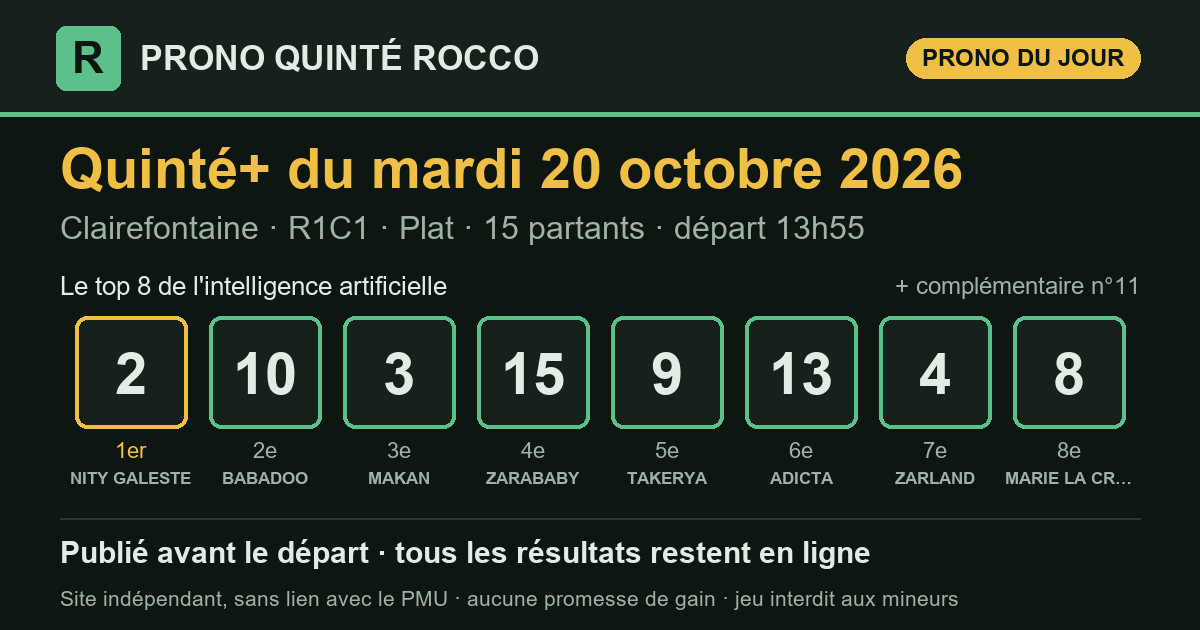
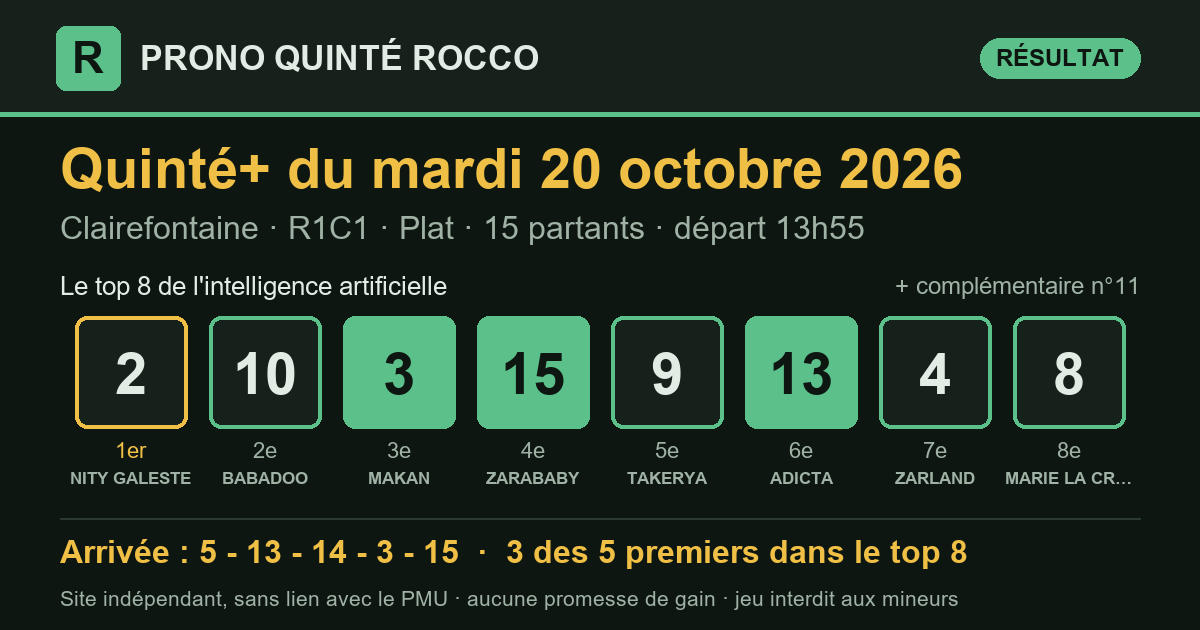
Prono Quinté+ 2026-10-20 Clairefontaine R1C1 — publié le 20/10/2026 14:09 (heure de Paris)

diff --git a/index.html b/index.html
@@ -16,7 +16,7 @@
 <meta property="og:title" content="Pronostic Quinté+ du mardi 20 octobre 2026 — Prono Quinté Rocco">
 <meta property="og:description" content="Le pronostic du Quinté+ par intelligence artificielle, publié avant le départ, avec tous les résultats et le rendement réel.">
 <meta property="og:url" content="https://prono-quinte-rocco.fr/">
-<meta property="og:image" content="https://prono-quinte-rocco.fr/partage/2026-10-20.png?v=d3337e1f">
+<meta property="og:image" content="https://prono-quinte-rocco.fr/partage/2026-10-20.png?v=237394e3">
 <meta property="og:image:type" content="image/png">
 <meta property="og:image:width" content="1200">
 <meta property="og:image:height" content="630">
@@ -31,15 +31,15 @@
 </header>
 <main>
 <section class="une" aria-labelledby="t-jour">
-  <p class="surtitre">Quinté+ du jour</p>
+  <p class="surtitre">Dernier Quinté+</p>
   <h1 id="t-jour">Le prono du Quinté+, résultats compris</h1>
   <p class="chapo">Chaque matin, une intelligence artificielle classe les partants du
   Quinté+. Le classement est publié avant le départ, puis comparé à l'arrivée
   officielle. Tous les résultats restent en ligne, les bons comme les mauvais.</p>
   <article class="carte-course">
-  <div class="tete"><h2>Mardi 20 octobre 2026</h2><span class="etat attente">arrivée en attente</span></div>
+  <div class="tete"><h2>Mardi 20 octobre 2026</h2><span class="etat place">3 des 5 premiers dans le top 8</span></div>
   <p class="meta">Clairefontaine · <strong>R1C1</strong> · Plat · 15 partants · lisibilité <span class="note" aria-label="note 2 sur 5"><i class="on"></i><i class="on"></i><i class=""></i><i class=""></i><i class=""></i></span> 2/5</p>
-  <ol class="partants" aria-label="Classement du prono"><li><span class="rang">1<sup>er</sup></span><span class="tapis ">2</span><span class="nom">NITY GALESTE</span></li><li><span class="rang">2<sup>e</sup></span><span class="tapis ">10</span><span class="nom">BABADOO</span></li><li><span class="rang">3<sup>e</sup></span><span class="tapis ">3</span><span class="nom">MAKAN</span></li><li><span class="rang">4<sup>e</sup></span><span class="tapis ">15</span><span class="nom">ZARABABY</span></li><li><span class="rang">5<sup>e</sup></span><span class="tapis ">9</span><span class="nom">TAKERYA</span></li><li><span class="rang">6<sup>e</sup></span><span class="tapis ">13</span><span class="nom">ADICTA</span></li><li><span class="rang">7<sup>e</sup></span><span class="tapis ">4</span><span class="nom">ZARLAND</span></li><li><span class="rang">8<sup>e</sup></span><span class="tapis ">8</span><span class="nom">MARIE LA CROIX</span></li><li><span class="rang">compl.</span><span class="tapis creux">11</span><span class="nom">ENTLEBUCH</span></li></ol>
+  <ol class="partants" aria-label="Classement du prono"><li><span class="rang">1<sup>er</sup></span><span class="tapis ">2</span><span class="nom">NITY GALESTE</span></li><li><span class="rang">2<sup>e</sup></span><span class="tapis ">10</span><span class="nom">BABADOO</span></li><li><span class="rang">3<sup>e</sup></span><span class="tapis plein">3</span><span class="nom">MAKAN</span></li><li><span class="rang">4<sup>e</sup></span><span class="tapis plein">15</span><span class="nom">ZARABABY</span></li><li><span class="rang">5<sup>e</sup></span><span class="tapis ">9</span><span class="nom">TAKERYA</span></li><li><span class="rang">6<sup>e</sup></span><span class="tapis plein">13</span><span class="nom">ADICTA</span></li><li><span class="rang">7<sup>e</sup></span><span class="tapis ">4</span><span class="nom">ZARLAND</span></li><li><span class="rang">8<sup>e</sup></span><span class="tapis ">8</span><span class="nom">MARIE LA CROIX</span></li><li><span class="rang">compl.</span><span class="tapis creux">11</span><span class="nom">ENTLEBUCH</span></li></ol>
   <div class="pied-carte"><span>Analysé le 20/10 à 11:13 · en ligne le 20/10 à 11:18 · départ à 13:55 (heure de Paris)</span><span><a href="quinte/2026-10-20.html">Détail de la course</a></span></div>
 </article>
   <div class="legende"><span><span class="tapis plein petit">4</span> numéro dans les 5 premiers</span>
@@ -62,7 +62,7 @@
 </section>
 <section class="bilan" aria-labelledby="t-bilan">
   <h2 id="t-bilan">Le bilan depuis le 8 septembre 2026</h2>
-  <div class="tableau chiffres"><div class="case"><span class="gros ">75 %</span><span class="lib">des arrivants trouvés dans le top 8</span><span class="ref">un top 8 tiré au hasard : 51 %</span></div><div class="case"><span class="gros ">88 %</span><span class="lib">des gagnants présents dans le top 8</span><span class="ref"></span></div><div class="case"><span class="gros ">51 %</span><span class="lib">1er du prono placé</span><span class="ref">sur 41 Quintés</span></div><div class="case"><span class="gros perte">0,94 €</span><span class="lib">rendus pour 1 € joué placé sur le 1er</span><span class="ref">rapports officiels PMU</span></div><div class="case"><span class="gros perte">0,52 €</span><span class="lib">rendus pour 1 € joué en Quinté+ combiné top 8</span><span class="ref">56 combinaisons, rapports PMU.fr, sur 41 Quintés</span></div></div>
+  <div class="tableau chiffres"><div class="case"><span class="gros ">75 %</span><span class="lib">des arrivants trouvés dans le top 8</span><span class="ref">un top 8 tiré au hasard : 51 %</span></div><div class="case"><span class="gros ">86 %</span><span class="lib">des gagnants présents dans le top 8</span><span class="ref"></span></div><div class="case"><span class="gros ">51 %</span><span class="lib">1er du prono placé</span><span class="ref">sur 41 Quintés</span></div><div class="case"><span class="gros perte">0,94 €</span><span class="lib">rendus pour 1 € joué placé sur le 1er</span><span class="ref">rapports officiels PMU</span></div><div class="case"><span class="gros perte">0,51 €</span><span class="lib">rendus pour 1 € joué en Quinté+ combiné top 8</span><span class="ref">56 combinaisons, rapports PMU.fr, sur 42 Quintés</span></div></div>
   <p class="avertissement">Moins de 1 € rendu pour 1 € joué : suivre ce prono à la lettre fait <strong>perdre de l'argent</strong> sur cette période. Il sert à analyser une course, pas à promettre un gain.</p>
 </section>
 </main>

diff --git a/partants.html b/partants.html
@@ -35,19 +35,19 @@
     <p class="fiche-depart">Départ <b>13:55</b> <span>heure de Paris</span></p>
   </div>
   <p class="surtitre">Les pronostics ailleurs sur le web</p>
-  <div class="liens"><a class="lien-ext" href="https://www.turfoo.fr/programmes-courses/261020/reunion1-clairefontaine/course1-prix-des-equidays/pronostics-presse/" rel="noopener" target="_blank"><b>Les pronostics de la presse →</b><span>sur Turfoo (site extérieur)</span></a><a class="lien-ext" href="https://www.geny.com/programme/2026-10-20" rel="noopener" target="_blank"><b>Partants et pronostics →</b><span>programme du jour sur Geny (site extérieur)</span></a></div>
+  <div class="liens"><a class="lien-ext" href="https://www.turfoo.fr/programmes-courses/261020/" rel="noopener" target="_blank"><b>Les pronostics de la presse →</b><span>sur Turfoo (site extérieur)</span></a><a class="lien-ext" href="https://www.geny.com/programme/2026-10-20" rel="noopener" target="_blank"><b>Partants et pronostics →</b><span>programme du jour sur Geny (site extérieur)</span></a></div>
   <div class="liste-boite"><table class="liste-partants">
     <thead><tr><th>N°</th><th>Cheval</th><th class="cote"><span class="long">Cote du matin</span><span class="court">Cote</span></th>
     <th class="ia"><span class="long">Prono IA</span><span class="court">IA</span></th></tr></thead>
     <tbody><tr>
   <td><span class="tapis petit">1</span></td>
   <td><span class="cheval">YACOMO</span><span class="sous">G.SIAS · FX.WEISSMEIER</span></td>
-  <td class="cote num">28,0</td>
+  <td class="cote num">33,0</td>
   <td class="ia">—</td>
 </tr><tr>
   <td><span class="tapis petit">2</span></td>
   <td><span class="cheval">NITY GALESTE</span><span class="sous">C.LECOEUVRE · H.GHABRI</span></td>
-  <td class="cote num">5,5</td>
+  <td class="cote num">5,0</td>
   <td class="ia"><span class="etat place">1<sup>er</sup></span></td>
 </tr><tr>
   <td><span class="tapis petit">3</span></td>
@@ -57,17 +57,17 @@
 </tr><tr>
   <td><span class="tapis petit">4</span></td>
   <td><span class="cheval">ZARLAND</span><span class="sous">T.BACHELOT · S.WATTEL (S)</span></td>
-  <td class="cote num">9,9</td>
+  <td class="cote num">9,2</td>
   <td class="ia"><span class="etat place">7<sup>e</sup></span></td>
 </tr><tr>
   <td><span class="tapis petit">5</span></td>
   <td><span class="cheval">MY HABITUDE</span><span class="sous">C.COLLET-VIDAL · ROB.COLLET (S)</span></td>
-  <td class="cote num">19,0</td>
+  <td class="cote num">21,0</td>
   <td class="ia">—</td>
 </tr><tr>
   <td><span class="tapis petit">6</span></td>
   <td><span class="cheval">ARANYANI</span><span class="sous">E.HARDOUIN · C.FEY (S)</span></td>
-  <td class="cote num">18,0</td>
+  <td class="cote num">19,0</td>
   <td class="ia">—</td>
 </tr><tr class="np">
   <td><span class="tapis petit">7</span></td>
@@ -82,32 +82,32 @@
 </tr><tr>
   <td><span class="tapis petit">9</span></td>
   <td><span class="cheval">TAKERYA</span><span class="sous">A.POUCHIN · E.LIBAUD (S)</span></td>
-  <td class="cote num">9,0</td>
+  <td class="cote num">9,3</td>
   <td class="ia"><span class="etat place">5<sup>e</sup></span></td>
 </tr><tr>
   <td><span class="tapis petit">10</span></td>
   <td><span class="cheval">BABADOO</span><span class="sous">A.MADAMET · M.BRASME (S)</span></td>
-  <td class="cote num">15,0</td>
+  <td class="cote num">14,0</td>
   <td class="ia"><span class="etat place">2<sup>e</sup></span></td>
 </tr><tr>
   <td><span class="tapis petit">11</span></td>
   <td><span class="cheval">ENTLEBUCH</span><span class="sous">A.LEMAITRE · MME H.SAUER</span></td>
-  <td class="cote num">10,0</td>
+  <td class="cote num">12,0</td>
   <td class="ia"><span class="etat place">compl.</span></td>
 </tr><tr>
   <td><span class="tapis petit">12</span></td>
   <td><span class="cheval">SORELINO</span><span class="sous">L.PLOMMEE · MME Y.VOLLMER</span></td>
-  <td class="cote num">38,0</td>
+  <td class="cote num">49,0</td>
   <td class="ia">—</td>
 </tr><tr>
   <td><span class="tapis petit">13</span></td>
   <td><span class="cheval">ADICTA</span><span class="sous">C.DEMURO · VH.MENDES DOS SANTOS</span></td>
-  <td class="cote num">14,0</td>
+  <td class="cote num">15,0</td>
   <td class="ia"><span class="etat place">6<sup>e</sup></span></td>
 </tr><tr>
   <td><span class="tapis petit">14</span></td>
   <td><span class="cheval">EXELMANS</span><span class="sous">T.TRULLIER · C.FERLAND (S)</span></td>
-  <td class="cote num">12,0</td>
+  <td class="cote num">11,0</td>
   <td class="ia">—</td>
 </tr><tr>
   <td><span class="tapis petit">15</span></td>
@@ -117,12 +117,12 @@
 </tr><tr>
   <td><span class="tapis petit">16</span></td>
   <td><span class="cheval">MICKAEL D&#x27;OO</span><span class="sous">M.VELON · FR.MONFORT (S)</span></td>
-  <td class="cote num">16,0</td>
+  <td class="cote num">18,0</td>
   <td class="ia">—</td>
 </tr></tbody>
   </table></div>
   <p class="meta">Le rang du prono IA est celui publié sur ce site. Sous chaque cheval : jockey · entraîneur. Partants et cotes : programme
-  officiel du PMU, lu le 20/10 à 11:18 (heure de Paris). NP = non-partant.</p>
+  officiel du PMU, lu le 20/10 à 14:09 (heure de Paris). NP = non-partant.</p>
 </section>
 </main>
 <footer class="pied">

diff --git a/quinte/2026-10-20.html b/quinte/2026-10-20.html
@@ -16,7 +16,7 @@
 <meta property="og:title" content="Pronostic Quinté+ du mardi 20 octobre 2026 à Clairefontaine — Prono Quinté Rocco">
 <meta property="og:description" content="Prono Quinté+ du mardi 20 octobre 2026 (Clairefontaine) : top 8, arrivée officielle et rapports PMU.fr.">
 <meta property="og:url" content="https://prono-quinte-rocco.fr/quinte/2026-10-20.html">
-<meta property="og:image" content="https://prono-quinte-rocco.fr/partage/2026-10-20.png?v=d3337e1f">
+<meta property="og:image" content="https://prono-quinte-rocco.fr/partage/2026-10-20.png?v=237394e3">
 <meta property="og:image:type" content="image/png">
 <meta property="og:image:width" content="1200">
 <meta property="og:image:height" content="630">
@@ -35,11 +35,19 @@
   <h1>Pronostic Quinté+ du mardi 20 octobre 2026</h1>
   <p class="chapo">Clairefontaine · R1C1 · Plat · 15 partants</p>
   <article class="carte-course">
-  <div class="tete"><h2>Le prono : top 8 et complémentaire</h2><span class="etat attente">arrivée en attente</span></div>
+  <div class="tete"><h2>Le prono : top 8 et complémentaire</h2><span class="etat place">3 des 5 premiers dans le top 8</span></div>
   <p class="meta">Clairefontaine · <strong>R1C1</strong> · Plat · 15 partants · lisibilité <span class="note" aria-label="note 2 sur 5"><i class="on"></i><i class="on"></i><i class=""></i><i class=""></i><i class=""></i></span> 2/5</p>
-  <ol class="partants" aria-label="Classement du prono"><li><span class="rang">1<sup>er</sup></span><span class="tapis ">2</span><span class="nom">NITY GALESTE</span></li><li><span class="rang">2<sup>e</sup></span><span class="tapis ">10</span><span class="nom">BABADOO</span></li><li><span class="rang">3<sup>e</sup></span><span class="tapis ">3</span><span class="nom">MAKAN</span></li><li><span class="rang">4<sup>e</sup></span><span class="tapis ">15</span><span class="nom">ZARABABY</span></li><li><span class="rang">5<sup>e</sup></span><span class="tapis ">9</span><span class="nom">TAKERYA</span></li><li><span class="rang">6<sup>e</sup></span><span class="tapis ">13</span><span class="nom">ADICTA</span></li><li><span class="rang">7<sup>e</sup></span><span class="tapis ">4</span><span class="nom">ZARLAND</span></li><li><span class="rang">8<sup>e</sup></span><span class="tapis ">8</span><span class="nom">MARIE LA CROIX</span></li><li><span class="rang">compl.</span><span class="tapis creux">11</span><span class="nom">ENTLEBUCH</span></li></ol>
+  <ol class="partants" aria-label="Classement du prono"><li><span class="rang">1<sup>er</sup></span><span class="tapis ">2</span><span class="nom">NITY GALESTE</span></li><li><span class="rang">2<sup>e</sup></span><span class="tapis ">10</span><span class="nom">BABADOO</span></li><li><span class="rang">3<sup>e</sup></span><span class="tapis plein">3</span><span class="nom">MAKAN</span></li><li><span class="rang">4<sup>e</sup></span><span class="tapis plein">15</span><span class="nom">ZARABABY</span></li><li><span class="rang">5<sup>e</sup></span><span class="tapis ">9</span><span class="nom">TAKERYA</span></li><li><span class="rang">6<sup>e</sup></span><span class="tapis plein">13</span><span class="nom">ADICTA</span></li><li><span class="rang">7<sup>e</sup></span><span class="tapis ">4</span><span class="nom">ZARLAND</span></li><li><span class="rang">8<sup>e</sup></span><span class="tapis ">8</span><span class="nom">MARIE LA CROIX</span></li><li><span class="rang">compl.</span><span class="tapis creux">11</span><span class="nom">ENTLEBUCH</span></li></ol>
   <div class="pied-carte"><span>Analysé le 20/10 à 11:13 · en ligne le 20/10 à 11:18 · départ à 13:55 (heure de Paris)</span><span></span></div>
 </article>
+<section class="carte-course" aria-labelledby="t-arr">
+  <div class="tete"><h2 id="t-arr">Arrivée officielle</h2></div>
+  <div class="rangee"><span class="tapis creux" title="1er">5</span><span class="tapis plein" title="2e">13</span><span class="tapis creux" title="3e">14</span><span class="tapis plein" title="4e">3</span><span class="tapis plein" title="5e">15</span></div>
+  <div class="deux">
+    <div><h3>Ce qu'aurait rendu le prono</h3><dl class="kv"><dt>1 € placé sur le 1er (n°2)</dt><dd>rapport manquant</dd><dt>1 € gagnant sur le 1er</dt><dd>rapport manquant</dd><dt>Quinté+ combiné top 8 (mise 112 €)</dt><dd>0,00 €</dd><dt>dont</dt><dd>aucun gain</dd></dl></div>
+    <div><h3>Rapports officiels</h3><dl class="kv"><dt>e-Quinté+ Ordre (2 €)</dt><dd>39 707,00 €</dd><dt>e-Quinté+ Désordre (2 €)</dt><dd>536,80 €</dd><dt>e-Bonus 4sur5 (2 €)</dt><dd>20,20 €</dd><dt>e-Bonus 3 (2 €)</dt><dd>17,00 €</dd></dl></div>
+  </div>
+</section>
 </section>
 </main>
 <footer class="pied">

diff --git a/resultats.html b/resultats.html
@@ -39,8 +39,8 @@
     <tbody><tr>
   <td class="c-date"><a href="quinte/2026-10-20.html">20/10</a></td>
   <td class="c-course">Clairefontaine<br><span class="meta">R1C1 · Plat</span></td>
-  <td data-label="Top 8 du prono"><div class="rangee"><span class="tapis petit">2</span><span class="tapis petit">10</span><span class="tapis petit">3</span><span class="tapis petit">15</span><span class="tapis petit">9</span><span class="tapis petit">13</span><span class="tapis petit">4</span><span class="tapis petit">8</span></div></td><td data-label="Arrivée"><span class="etat attente">en attente</span></td>
-  <td class="num" data-label="Trouvés">—</td><td data-label="1er du prono"><span class="etat attente">—</span></td><td class="mont" data-label="Quinté+ top 8 (mise 112 €)">—</td>
+  <td data-label="Top 8 du prono"><div class="rangee"><span class="tapis petit">2</span><span class="tapis petit">10</span><span class="tapis plein petit">3</span><span class="tapis plein petit">15</span><span class="tapis petit">9</span><span class="tapis plein petit">13</span><span class="tapis petit">4</span><span class="tapis petit">8</span></div></td><td data-label="Arrivée"><div class="rangee"><span class="tapis creux petit" title="1er">5</span><span class="tapis plein petit" title="2e">13</span><span class="tapis creux petit" title="3e">14</span><span class="tapis plein petit" title="4e">3</span><span class="tapis plein petit" title="5e">15</span></div></td>
+  <td class="num" data-label="Trouvés">3/5</td><td data-label="1er du prono"><span class="etat non">non placé</span></td><td class="mont perte" data-label="Quinté+ top 8 (mise 112 €)">0,00 €</td>
 </tr><tr>
   <td class="c-date"><a href="quinte/2026-10-19.html">19/10</a></td>
   <td class="c-course">Deauville<br><span class="meta">R1C1 · Plat</span></td>
@@ -251,7 +251,7 @@
 </section>
 <section class="bilan" aria-labelledby="t-bilan">
   <h2 id="t-bilan">Le bilan depuis le 8 septembre 2026</h2>
-  <div class="tableau chiffres"><div class="case"><span class="gros ">75 %</span><span class="lib">des arrivants trouvés dans le top 8</span><span class="ref">un top 8 tiré au hasard : 51 %</span></div><div class="case"><span class="gros ">88 %</span><span class="lib">des gagnants présents dans le top 8</span><span class="ref"></span></div><div class="case"><span class="gros ">51 %</span><span class="lib">1er du prono placé</span><span class="ref">sur 41 Quintés</span></div><div class="case"><span class="gros perte">0,94 €</span><span class="lib">rendus pour 1 € joué placé sur le 1er</span><span class="ref">rapports officiels PMU</span></div><div class="case"><span class="gros perte">0,52 €</span><span class="lib">rendus pour 1 € joué en Quinté+ combiné top 8</span><span class="ref">56 combinaisons, rapports PMU.fr, sur 41 Quintés</span></div></div>
+  <div class="tableau chiffres"><div class="case"><span class="gros ">75 %</span><span class="lib">des arrivants trouvés dans le top 8</span><span class="ref">un top 8 tiré au hasard : 51 %</span></div><div class="case"><span class="gros ">86 %</span><span class="lib">des gagnants présents dans le top 8</span><span class="ref"></span></div><div class="case"><span class="gros ">51 %</span><span class="lib">1er du prono placé</span><span class="ref">sur 41 Quintés</span></div><div class="case"><span class="gros perte">0,94 €</span><span class="lib">rendus pour 1 € joué placé sur le 1er</span><span class="ref">rapports officiels PMU</span></div><div class="case"><span class="gros perte">0,51 €</span><span class="lib">rendus pour 1 € joué en Quinté+ combiné top 8</span><span class="ref">56 combinaisons, rapports PMU.fr, sur 42 Quintés</span></div></div>
   <p class="avertissement">Moins de 1 € rendu pour 1 € joué : suivre ce prono à la lettre fait <strong>perdre de l'argent</strong> sur cette période. Il sert à analyser une course, pas à promettre un gain.</p>
 </section>
 </main>
